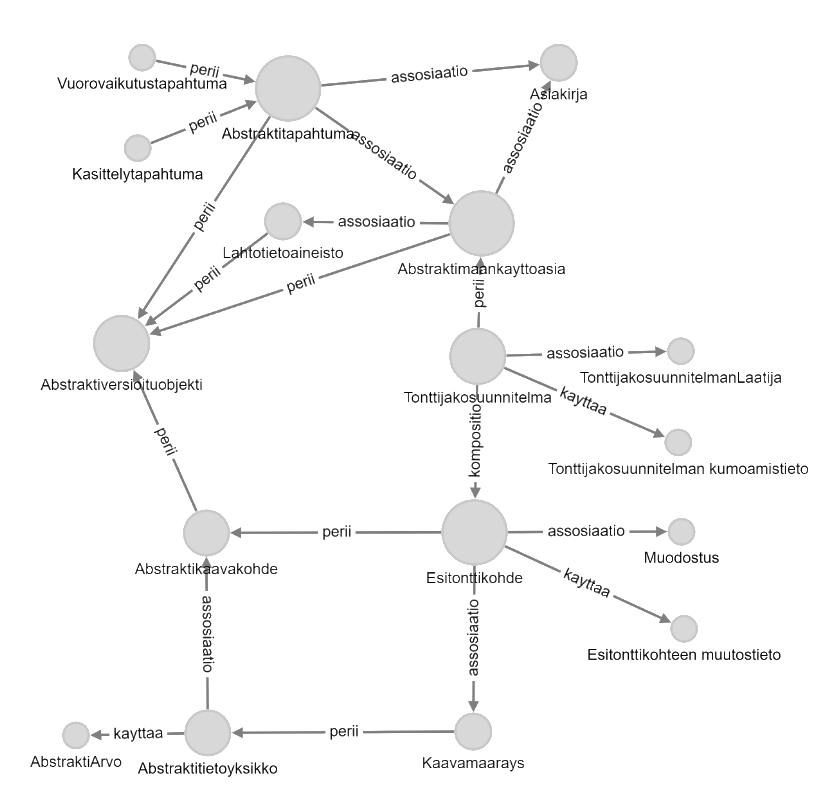
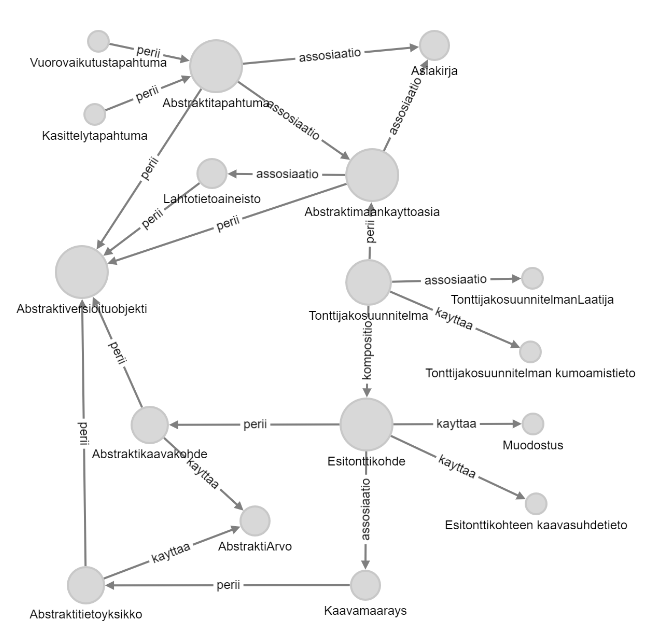
Muutoksia loogiseen malliin

diff --git a/docs/1.0-dev/looginenmalli/dokumentaatio/index.md b/docs/1.0-dev/looginenmalli/dokumentaatio/index.md
@@ -18,6 +18,8 @@ Loogisen tason tietomalli määrittelee kaikille tonttijakosuunnitelman kohteill
 
 Tietomalli perustuu kaavatietomallin yhteiskäyttöisiin tietokomponentteihin. Kaavatietomallin MKP-ydin kuvaa maankäyttöpäätösten tietomallintamisessa yleiskäyttöisiksi suunnitellut luokat ja niihin liittyvät koodistot, joita hyödynnetään Tonttijakosuunnitelman soveltamisprofiilin kautta. MKP-ytimen lisäksi hyödynnetään laajasti Kaavatietomallin abstrakteja ja muita luokkia Tonttijakosuunnitelmatietomallin määrittelemien koodistojen ja soveltamisprofiilin avulla. 
 
+Tonttijakosuunnitelman UML-kaaviot ovat saatavilla erillisinä dokumentteina.
+
 ## Graafinen mallinnus loogisesta tietomallista
 ![Tonttijakosuunnitelman looginen malli graafisena mallinnuksena](looginenmalli.png "Looginen tietomalli -  graafinen mallinnus (Neo4j)")
 
@@ -118,7 +120,25 @@ laji | [AbstraktiVuorovaikutustapahtumanLaji](#AbstraktiVuorovaikutustapahtumanL
 
 ### Organisaatio
 
-{% include note.html content="Tulossa" %}
+{% include note.html content="Lisättävä." %}
+
+### Koodistot
+
+#### LahtotietoaineistonLaji
+
+{% include note.html content="Lisättävä." %}
+
+#### AsiakirjanLaji
+
+{% include note.html content="Lisättävä." %}
+
+#### AbstraktiKasittelytapahtumanLaji
+
+{% include note.html content="Lisättävä." %}
+
+#### AbstraktiVuorovaikutustapahtumanLaji
+
+{% include note.html content="Lisättävä." %}
 
 ## INSPIRE datamääritelmät
 
@@ -208,7 +228,7 @@ kohteenPinta-ala | [Number](#Number) | 0..*  | esitontin pinta-ala tai kolmiulot
 pystysuunteinenRajaus | [Korkeusvali](#Korkeusvali) | 0..1  | kolmiulotteisen esitontin ylin ja alin korkeus merenpinnasta.
 
 ### Esitonttikohde
-
+<!--Tämä ei taida olla vielä ajantaisainen -->
 Nimi             | Tyyppi              | Kardinaliteetti | Kuvaus
 -----------------|---------------------|-----------------|------------------------------------
 laji | [AbstraktiKaavakohdelaji](#AbstraktiKaavakohdelaji) | 1  | kuvaa kaavakohteen tyypin
@@ -220,28 +240,36 @@ elinkaarentila | [TonttijakosuunnitelmanElinkaarentila](#TonttijakosuunnitelmanE
 
 Roolin nimi        | Kohde | Kardinaliteetti | Kuvaus
 -----------------|--------------------|---------------------|----------
-maarays | [Kaavamaarays](#Kaavamaarays) | 0..* | ?
-muodostaja | [Muodostajat](#Muodostajat) | 1 | ?
+maarays | [Kaavamaarays](#Kaavamaarays) | 0..* | kaavaan sisältyvä sanallinen määräys, jolla ohjataan alueiden suunnittelua ja rakentamista
+muodostaja | [Muodostustieto](#Muodostustieto) | 1 | tieto muodostajakiinteistöistä, josta esitontti muodostetaan
+suhdeasemakaavaan | [SuhdeAsemakaavaan](#SuhdeAsemakaavaan) | 1..* | tieto esitonttikohteeseen liittyvistä asemakaavoista ja niiden vaikutuksista
 
-### Muodostus
+### Muodostustieto
 
 Nimi             | Tyyppi              | Kardinaliteetti | Kuvaus
 -----------------|---------------------|-----------------|------------------------------------
 kiinteistoTunnus | [Tunnusarvo](#Tunnusarvo) | 1  | kiinteistörekisteriin merkityn rekisteriyksikön yksilöivä tunnus
 muodostusPinta-ala | [Number](#Number) | 1  | muodostavan rekisterikiinteistön pinta-alan määrä neliömetreissä
-muodostuuKokonaan | [Boolean](#Boolean) | 1  | tieto, muodostuuko esitontti muodostajakiinteistöstä kokonaan
+
+### KaavanSuhdetieto
+
+Nimi             | Tyyppi              | Kardinaliteetti | Kuvaus
+-----------------|---------------------|-----------------|------------------------------------
+kaavaTunnus | [URI](#URI) | 1  | kaavatunnus, joka muuttaa esitonttikohteen kaavamääräyksiä tai kumoaa esitonttikohteen
+kaavalaji | [Kaavalaji](#Kaavalaji) | 1 | alueiden käytön ohjaustarpeeseen, kaavan sisältövaatimuksiin, prosessiin ja vastuulliseen hallintoviranomaiseen perustuva luokittelu
+kumoaa | [boolean](#boolean) | 1 | jos arvo on true, kaava kumoaa esitonttikohteen kokonaan
 
 ### Kaavamaarays
 
 laji             | Tyyppi              | Kardinaliteetti | Kuvaus
 -----------------|---------------------|-----------------|------------------------------------
-kiinteistoTunnus | [AbstraktiKaavamaaraysLaji](#AbstraktiKaavamaaraysLaji) | 1  | ?
+liittyvanKaavamaarayksenTunnus | [URI](#URI) | 1  | viittaustunnus kaavaan sisältyvän kaavamääräyksen tietokohteeseen, joka liittyy esitonttikohteeseen
 
 ### AbstraktiTietoyksikko
 
 laji             | Tyyppi              | Kardinaliteetti | Kuvaus
 -----------------|---------------------|-----------------|------------------------------------
-arvo | [AbstraktiArvo](#AbstraktiArvo) | 0..*  | ?
+arvo | [AbstraktiArvo](#AbstraktiArvo) | 0..*  | 
 
 ### TonttijakosuunnitelmanKumoamistieto
 
@@ -304,7 +332,7 @@ Englanninkielinen nimi:
 
 Stereotyyppi: CodeList (koodisto)
 
-Laajennettavuus: 
+Laajennettavuus: Ei laajennettavissa
 
 {% include codelistref.html id="RY_TonttijakosuunnitelmanLaji" name="Tonttijakosuunnitelman laji" %}
 
@@ -314,11 +342,9 @@ Englanninkielinen nimi:
 
 Stereotyyppi: CodeList (koodisto)
 
-Laajennettavuus: 
+Laajennettavuus: Ei laajennettavissa
 
 {% include codelistref.html id="RY_TonttijakosuunnitelmanElinkaarentila" name="Tonttijakosuunnitelman elinkaaren tila" %}
-
-{% include note.html content="Perustuu MRL:n 11. lukuun." %}
 
 #### TonttijakosuunnitelmanAsiakirjanLaji
 
@@ -326,19 +352,58 @@ Englanninkielinen nimi:
 
 Stereotyyppi: CodeList (koodisto)
 
-Laajennettavuus: 
+Laajennettavuus: Ei laajennettavissa
 
 {% include codelistref.html id="RY_TonttijakosuunnitelmanAsiakirjanLaji" name="Tonttijakosuunnitelmaa koskevan asiakirjan laji" %}
 
-#### MaanalaisuudenLaji
+#### SuhdePeruskiinteistoon
 
 Englanninkielinen nimi:
 
 Stereotyyppi: CodeList (koodisto)
 
-Laajennettavuus: 
+Laajennettavuus: Ei laajennettavissa
 
-{% include codelistref.html id="RY_MaanalaisuudenLaji" name="Maanalaisuuden laji" %}
+{% include codelistref.html id="RY_SuhdePeruskiinteistoon" name="Esitonttikohteen suhde peruskiinteistöön" %}
+
+#### EsitonttikohdeLaji
+
+<!--Lisää sisäinen linkki -->
+Erikoistaa luokkaa AbstraktiKaavamaarayslaji. 
+
+Englanninkielinen nimi:
+
+Stereotyyppi: CodeList (koodisto)
+
+Laajennettavuus: Ei laajennettavissa
+
+{% include codelistref.html id="RY_EsitonttikohdeLaji" name="Esitonttikohteen laji" %}
+
+#### TonttijakosuunnitelmanVuorovaikutustapahtumanLaji
+
+<!--Lisää sisäinen linkki -->
+Erikoistaa luokkaa AbstraktiVuorovaikutustapahtumanLaji. 
+
+Englanninkielinen nimi:
+
+Stereotyyppi: CodeList (koodisto)
+
+Laajennettavuus: Ei laajennettavissa
+
+{% include codelistref.html id="RY_TonttijakosuunnitelmanVuorovaikutustapahtumanLaji" name="Tonttijakosuunnitelman vuorovaikutustapahtuman laji" %}
+
+#### TonttijakosuunnitelmanKasittelytapahtumanLaji
+
+<!--Lisää sisäinen linkki -->
+Erikoistaa luokkaa AbstraktiKasittelytapahtumanLaji. 
+
+Englanninkielinen nimi:
+
+Stereotyyppi: CodeList (koodisto)
+
+Laajennettavuus: Ei laajennettavissa
+
+{% include codelistref.html id="RY_TonttijakosuunnitelmanKasittelytapahtumanLaji" name="Tonttijakosuunnitelman kasittelytapahtuman laji" %}
 
 #### AbstraktiKaavamaarayslaji
 
